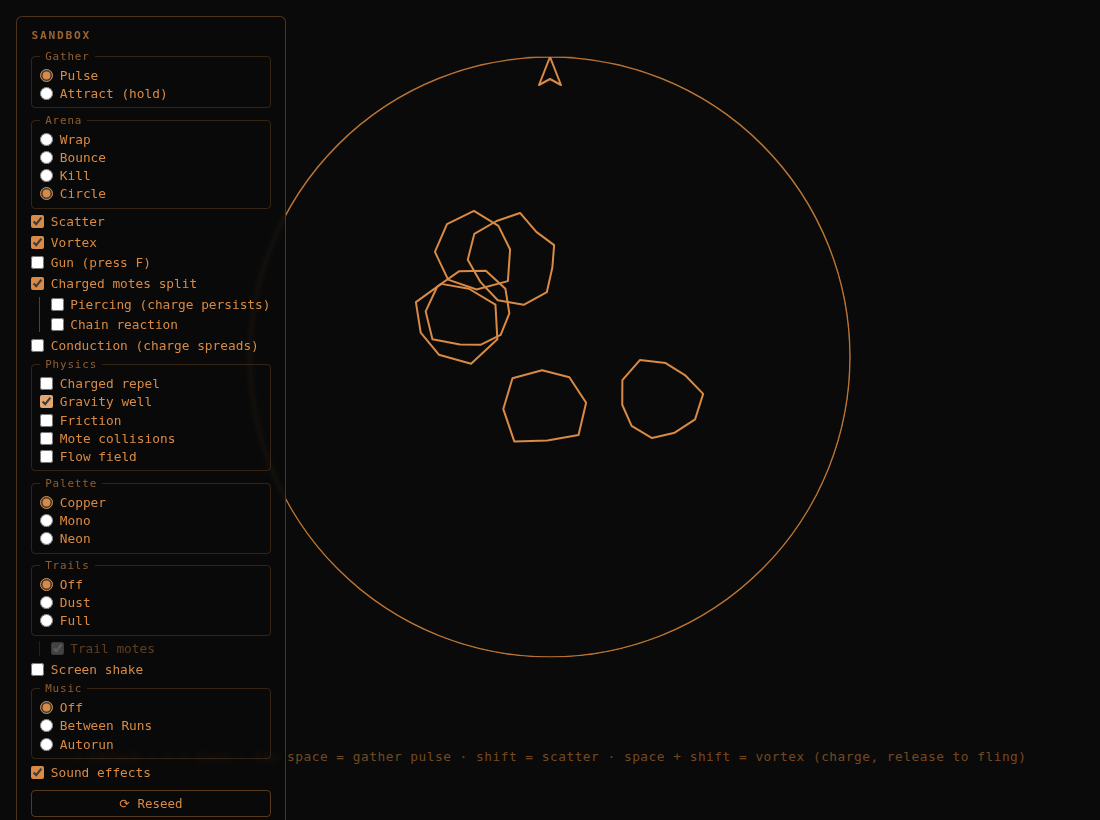
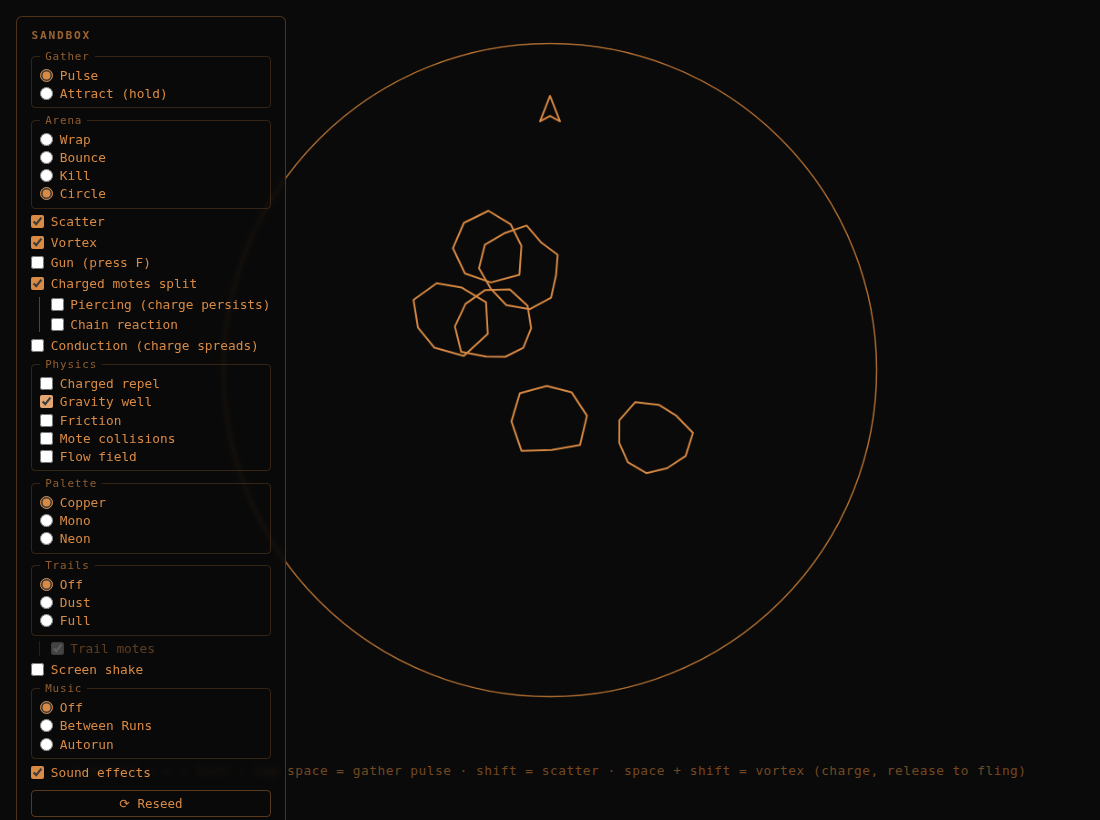
fix: square canvas so the circle fills it; drop the frame in circle mode
The circle was height-limited in the 960x600 canvas (floating in a wide
rectangle) and the rectangular border still showed. Make the canvas square
(720x720) so the circle fills it, and in circle mode drop the canvas border
(applyArenaShape) so only the clipped circle shows on the page bg — no square.

diff --git a/src/main.ts b/src/main.ts
@@ -88,7 +88,10 @@ function applyAudio(): void {
 // In circle mode, clip the canvas itself to a circle so the arena *is* the circle
 // (the rectangular corners/margins are hidden), not a circle drawn inside a rectangle.
 function applyArenaShape(): void {
-  if (canvas !== null) canvas.style.clipPath = config.edges === 'circle' ? 'circle(closest-side)' : ''
+  if (canvas === null) return
+  const circle = config.edges === 'circle'
+  canvas.style.clipPath = circle ? 'circle(closest-side)' : '' // clip the canvas to a circle
+  canvas.style.border = circle ? 'none' : '' // drop the rectangular frame ('' reverts to the CSS border)
 }
 
 // Browsers block audio until a user gesture. On the first one, resume the context AND

diff --git a/src/render.ts b/src/render.ts
@@ -37,7 +37,7 @@ export function draw(ctx: CanvasRenderingContext2D, world: World, config: Config
     ctx.strokeStyle = active.dim
     ctx.lineWidth = 1.5
     ctx.beginPath()
-    ctx.arc(world.width / 2, world.height / 2, Math.min(world.width, world.height) / 2, 0, Math.PI * 2)
+    ctx.arc(world.width / 2, world.height / 2, Math.min(world.width, world.height) / 2 - 1.5, 0, Math.PI * 2)
     ctx.stroke()
   }
 

diff --git a/index.html b/index.html
@@ -13,7 +13,7 @@
   </head>
   <body>
     <main>
-      <canvas id="game" width="960" height="600"></canvas>
+      <canvas id="game" width="720" height="720"></canvas>
       <p id="hint">↑ thrust · ← → turn · tap space = gather pulse · shift = scatter · hold space+shift = vortex (charge, then release to fling)</p>
     </main>
 

diff --git a/docs/ROADMAP.md b/docs/ROADMAP.md
@@ -84,10 +84,10 @@ post-movement passes were factored into `reactMotes` to keep it flat.
 The arena `edges` mode grew from wrap/bounce to four: **kill** (motes die at the edge;
 the ship clamps — no game-over) and **circle** (a centred circular arena everything
 bounces off). The per-axis `edge` helper became a unified `bound()` in `geometry.ts`
-(rectangle axes or a circle reflection, returning a `dead` flag). In circle mode the
-canvas element itself is **clipped to a circle** (`clip-path: circle(closest-side)` in
-`main.ts`) so the arena *is* the circle, not a circle inside a rectangle. Panel "Arena"
-radio: Wrap / Bounce / Kill / Circle.
+(rectangle axes or a circle reflection, returning a `dead` flag). The canvas is **square** (720×720) so a circle fills it; in circle mode the canvas is
+**clipped to a circle** (`clip-path: circle(closest-side)`) and its rectangular border is
+dropped, so the arena *is* the circle (corners show the page bg), not a circle floating in
+a rectangle. Panel "Arena" radio: Wrap / Bounce / Kill / Circle.
 
 ## Next — the open ladder (more mode packs)
 
